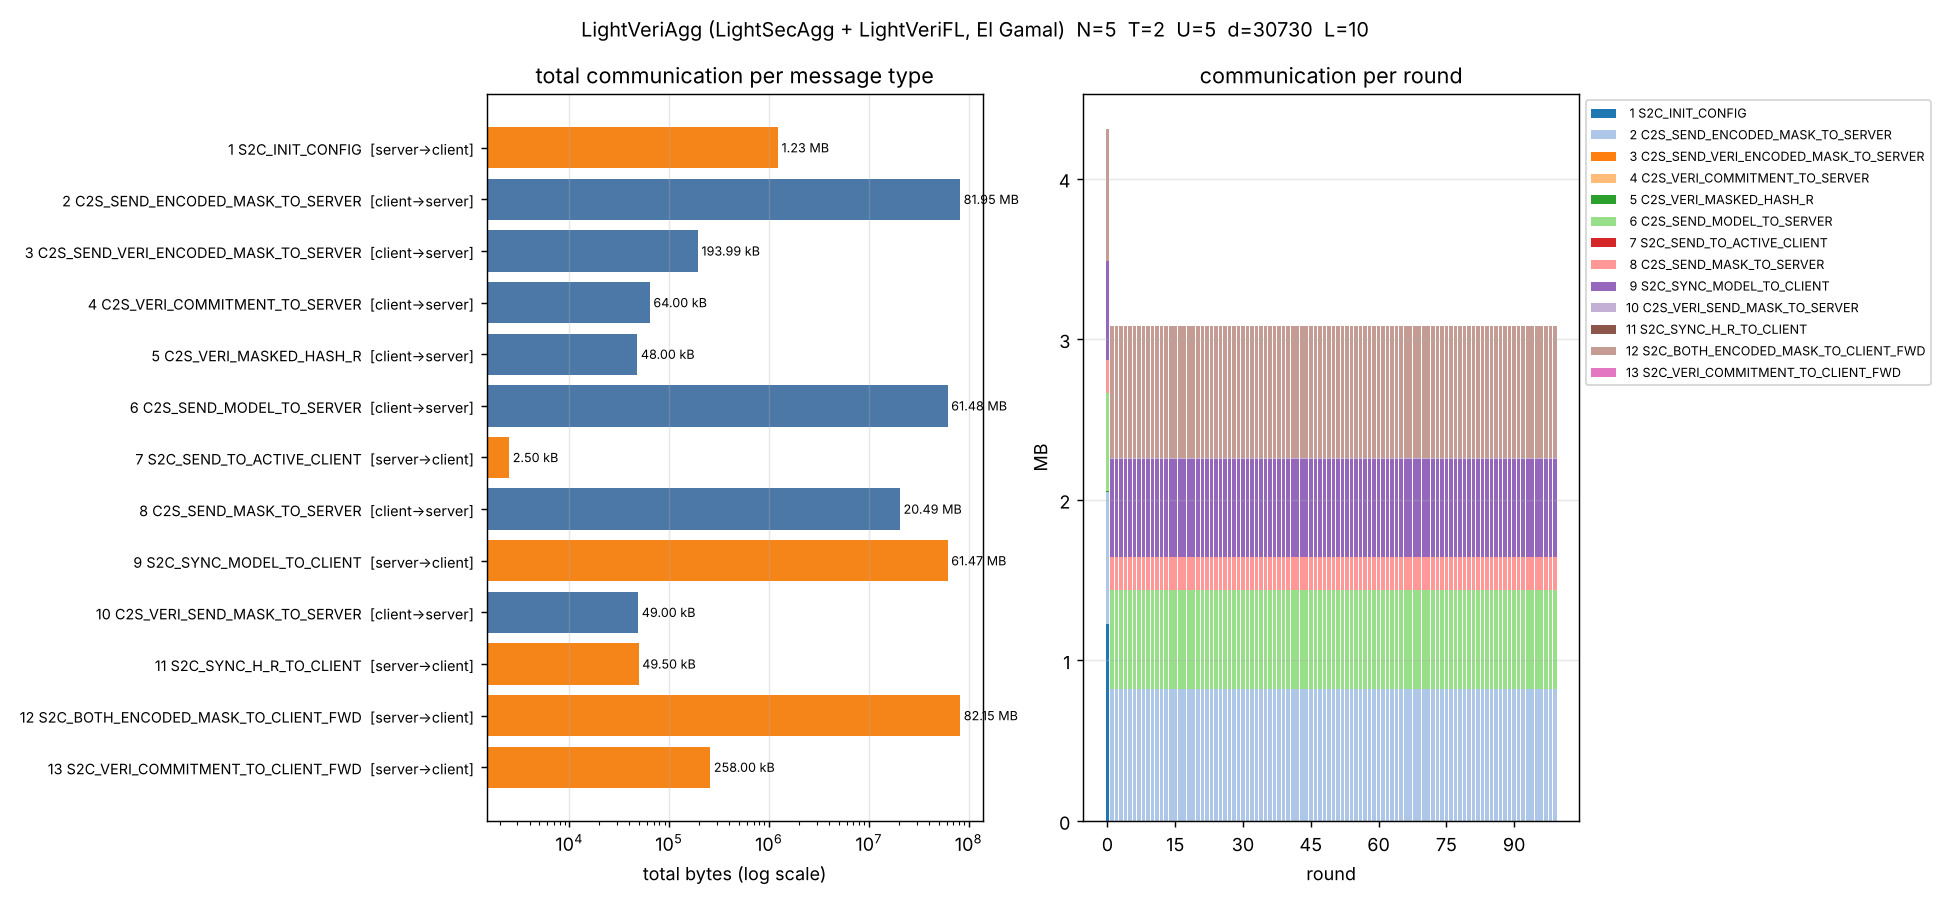
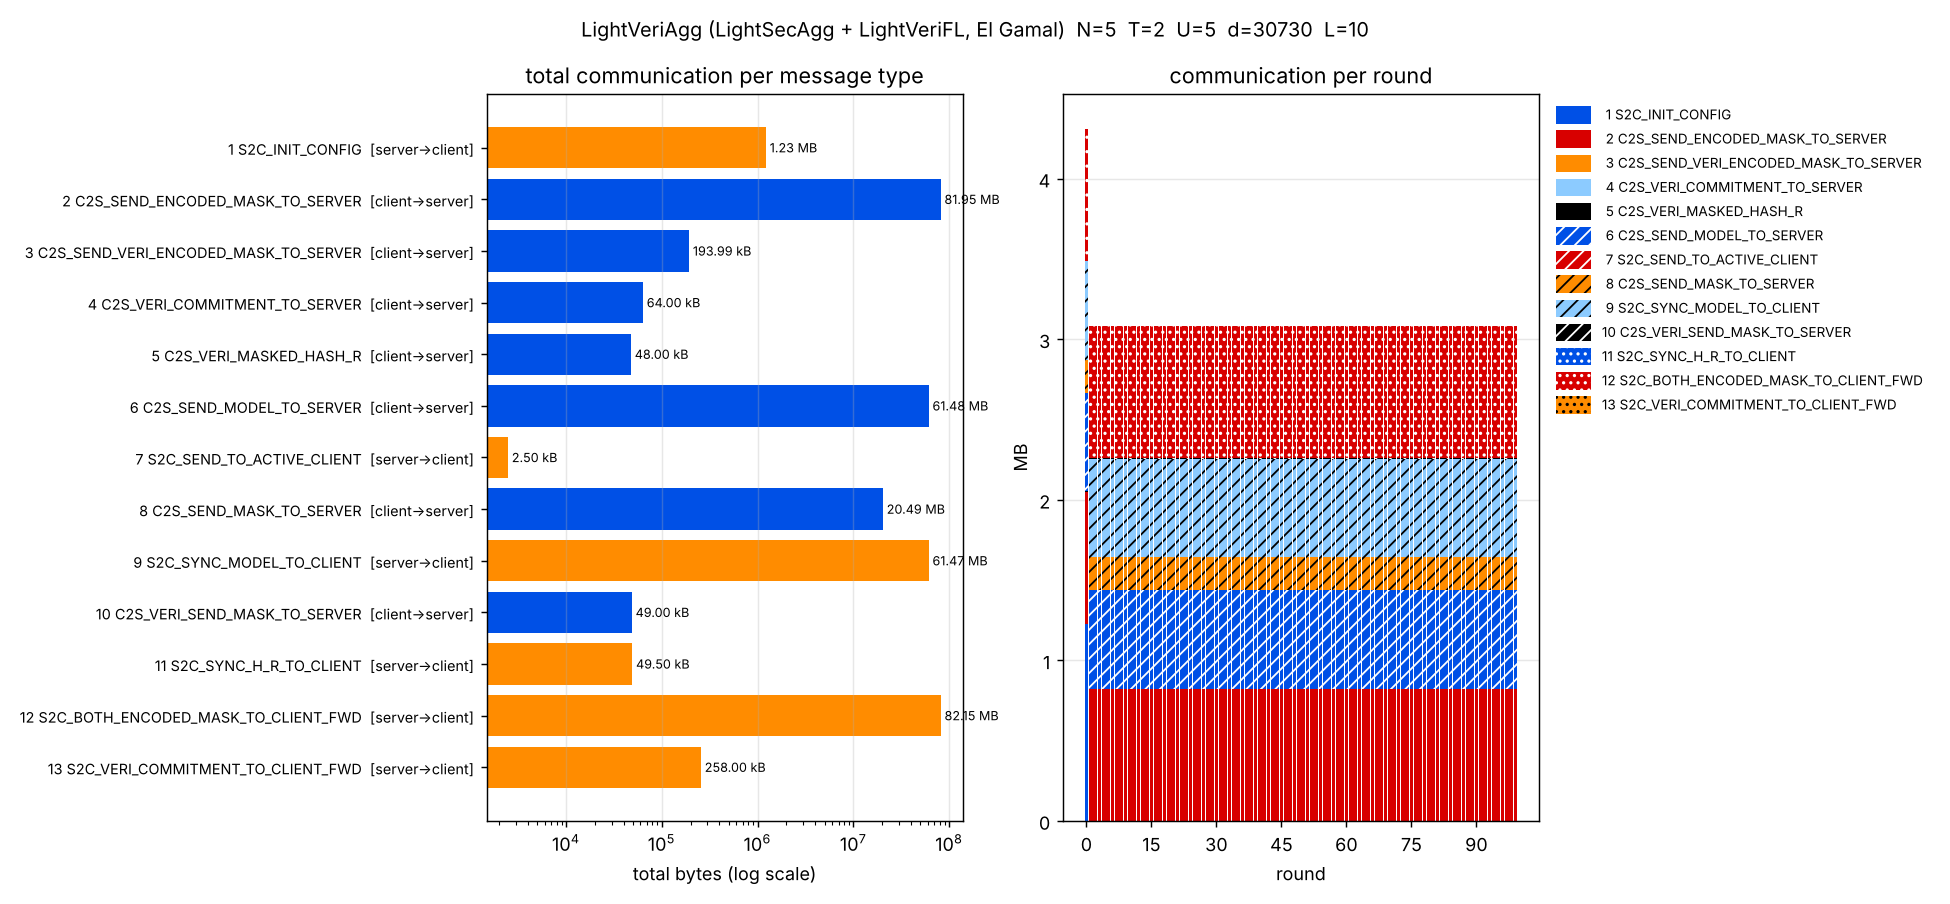
Colour-blind safe per-round charts; computation figure split in two
- communication per round and computation per round: five colours without a
  red-green pair (stark blue, red, orange, light blue, black), repeated with
  stripes and dots, so that no series relies on colour alone
- computation.png -> computation_per_step.png + computation_per_round.png
- stored runs in benchmark_results/ redrawn from their bench.json

Claude-Session: https://claude.ai/code/session_01YChDG96nS6shpJifX3EgX6

diff --git a/fedml_api/distributed/utils/bench.py b/fedml_api/distributed/utils/bench.py
@@ -389,19 +389,76 @@ def _json_default(o):
 # ----------------------------------------------------------------------------------
 # figures (matplotlib, PNG)
 # ----------------------------------------------------------------------------------
+# colour-blind safe series styles: five strong colours without a red-green pair (every pair stays
+# apart under protan/deutan/tritan simulation, worst: red/orange OKLab Delta E 19.5 for deutans),
+# repeated with patterns, so that no series is told apart by its colour alone.
+STARK_BLUE, STARK_RED, STARK_ORANGE, LIGHT_BLUE, BLACK = "#0050E6", "#D80000", "#FF8C00", "#8CCBFF", "#000000"
+SERIES_COLORS = (STARK_BLUE, STARK_RED, STARK_ORANGE, LIGHT_BLUE, BLACK)
+SERIES_HATCHES = ("", "///", "...", "\\\\\\", "xxx", "---")
+
+
+def _pyplot():
+    import matplotlib
+
+    matplotlib.use("Agg")
+    import matplotlib.pyplot as plt
+    return plt
+
+
+def series_style(i: int) -> dict:
+    """Bar style of the i-th series (series in a fixed order, e.g. by label): colour i mod 5 and
+    pattern i div 5 (solid, stripes, dots, ...); the pattern is white on the dark colours and black
+    on orange / light blue."""
+    import inspect
+    import matplotlib.patches
+
+    color = SERIES_COLORS[i % len(SERIES_COLORS)]
+    hatch = SERIES_HATCHES[(i // len(SERIES_COLORS)) % len(SERIES_HATCHES)]
+    hatch_color = BLACK if color in (STARK_ORANGE, LIGHT_BLUE) else "white"
+    style = {"facecolor": color, "hatch": hatch or None, "linewidth": 0}
+    if "hatchcolor" in inspect.signature(matplotlib.patches.Patch.__init__).parameters:
+        style["hatchcolor"] = hatch_color
+    else:  # matplotlib < 3.10 draws the pattern in the edge colour
+        style["edgecolor"] = hatch_color
+    return style
+
+
+def _stacked_bars(ax, rounds, series, width=0.85):
+    """series: [(label, values per round)] in a fixed order, stacked bottom-up; returns the totals"""
+    bottom = np.zeros(len(rounds))
+    for i, (label, v) in enumerate(series):
+        ax.bar(rounds, v, bottom=bottom, label=label, width=width, **series_style(i))
+        bottom += v
+    return bottom
+
+
+def _legend_right(ax):
+    ax.legend(fontsize=7.5, ncol=1, loc="upper left", bbox_to_anchor=(1.01, 1.0), handlelength=2.6,
+              handleheight=1.6, frameon=False)
+
+
+def _save(fig, path, title: str) -> Path:
+    import matplotlib.pyplot as plt
+
+    if title:
+        fig.suptitle(title, fontsize=11)
+    path = Path(path)
+    fig.tight_layout()
+    fig.savefig(path, dpi=130)
+    plt.close(fig)
+    return path
+
+
 def plot_communication(bench: Bench, path, title: str = "") -> Optional[Path]:
     """Total bytes per message type (left) and bytes per round stacked by message type (right)."""
     rows = bench.comm_summary()
     if not rows:
         return None
-    import matplotlib
-
-    matplotlib.use("Agg")
-    import matplotlib.pyplot as plt
+    plt = _pyplot()
     from matplotlib.ticker import MaxNLocator
 
     fig, axes = plt.subplots(1, 2, figsize=(15, max(3.2, 0.42 * len(rows) + 1.5)))
-    colors = {"client->server": "#4C78A8", "server->client": "#F58518", "server->server": "#999999"}
+    colors = {"client->server": STARK_BLUE, "server->client": STARK_ORANGE, "server->server": "#999999"}
     labels = [f"{r['label']}  [{r['direction']}]" for r in rows]
     vals = [r["bits"] / 8 for r in rows]
     ax = axes[0]
@@ -424,45 +481,28 @@ def plot_communication(bench: Bench, path, title: str = "") -> Optional[Path]:
     for rec in bench.comm:
         per[rec["label"]][rec["round"]] += rec["bits"] / 8 / 1e6
     rounds = sorted({rec["round"] for rec in bench.comm})
-    bottom = np.zeros(len(rounds))
-    cmap = plt.get_cmap("tab20")
-    for i, (label, d) in enumerate(sorted(per.items())):
-        v = np.array([d.get(rd, 0.0) for rd in rounds])
-        ax.bar(rounds, v, bottom=bottom, label=label, color=cmap(i % 20))
-        bottom += v
+    _stacked_bars(ax, rounds, [(label, np.array([d.get(rd, 0.0) for rd in rounds])) for label, d in sorted(per.items())])
     ax.set_xlabel("round")
     ax.xaxis.set_major_locator(MaxNLocator(integer=True))
     ax.set_ylabel("MB")
     ax.set_title("communication per round")
-    ax.legend(fontsize=7, ncol=1, loc="upper left", bbox_to_anchor=(1.0, 1.0))
+    _legend_right(ax)
     ax.grid(alpha=0.3, axis="y")
-    if title:
-        fig.suptitle(title, fontsize=11)
-    path = Path(path)
-    fig.tight_layout()
-    fig.savefig(path, dpi=130)
-    plt.close(fig)
-    return path
+    ax.set_axisbelow(True)
+    return _save(fig, path, title)
 
 
-def plot_computation(bench: Bench, path, title: str = "") -> Optional[Path]:
-    """Left: seconds per round and step, average over parties vs. max over parties (= concurrent clients).
-    Right: computation per round, stacked by step (slowest party per step = concurrent clients)."""
+def plot_computation_per_step(bench: Bench, path, title: str = "") -> Optional[Path]:
+    """Seconds per round and step: average over parties vs. max over parties (= concurrent clients)."""
     rows = bench.time_summary()
     if not rows:
         return None
-    import matplotlib
-
-    matplotlib.use("Agg")
-    import matplotlib.pyplot as plt
-    from matplotlib.ticker import MaxNLocator
-
-    fig, (ax, ax2) = plt.subplots(1, 2, figsize=(19, max(3.6, 0.45 * len(rows) + 1.5)),
-                                  gridspec_kw={"width_ratios": [1.0, 1.15]})
+    plt = _pyplot()
+    fig, ax = plt.subplots(figsize=(11, max(3.6, 0.45 * len(rows) + 1.5)))
     y = np.arange(len(rows))
-    ax.barh(y - 0.2, [max(r["avg_per_round_s"], 1e-7) for r in rows], height=0.4, color="#BAB0AC",
+    ax.barh(y - 0.2, [max(r["avg_per_round_s"], 1e-7) for r in rows], height=0.4, color=LIGHT_BLUE,
             label="average over parties")
-    ax.barh(y + 0.2, [max(r["parallel_per_round_s"], 1e-7) for r in rows], height=0.4, color="#4C78A8",
+    ax.barh(y + 0.2, [max(r["parallel_per_round_s"], 1e-7) for r in rows], height=0.4, color=STARK_BLUE,
             label="max over parties (concurrent clients)")
     ax.set_yticks(y, [f"{r['label']} [{r['who']}]" for r in rows], fontsize=8)
     ax.invert_yaxis()
@@ -471,30 +511,34 @@ def plot_computation(bench: Bench, path, title: str = "") -> Optional[Path]:
     ax.set_title("computation time per step (mean over rounds)")
     ax.legend(fontsize=8)
     ax.grid(alpha=0.3, axis="x")
+    ax.set_axisbelow(True)
+    return _save(fig, path, title)
 
-    # per round, stacked by step
+
+def plot_computation_per_round(bench: Bench, path, title: str = "") -> Optional[Path]:
+    """Computation per round, stacked by step (slowest party per step = concurrent clients, steps one
+    after another), with the mean per round."""
     per_round = bench.per_round_compute()
+    if not per_round:
+        return None
+    plt = _pyplot()
+    import matplotlib.patheffects as pe
+    from matplotlib.ticker import MaxNLocator
+
+    labels = [r["label"] for r in bench.time_summary()]  # the order of the per-step figure
     rounds = list(per_round)
-    labels = [r["label"] for r in rows]
-    bottom = np.zeros(len(rounds))
-    cmap = plt.get_cmap("tab20")
-    for i, label in enumerate(labels):
-        v = np.array([per_round[rd].get(label, 0.0) for rd in rounds])
-        ax2.bar(rounds, v, bottom=bottom, label=label, color=cmap(i % 20), width=0.85)
-        bottom += v
+    fig, ax = plt.subplots(figsize=(15, max(5.0, 0.3 * len(labels) + 1.5)))
+    totals = _stacked_bars(ax, rounds, [(label, np.array([per_round[rd].get(label, 0.0) for rd in rounds]))
+                                        for label in labels])
     if len(rounds) > 1:
-        ax2.axhline(float(np.mean(bottom)), color="black", ls="--", lw=1,
-                    label="mean per round (%.2f s)" % float(np.mean(bottom)))
-    ax2.set_xlabel("round")
-    ax2.xaxis.set_major_locator(MaxNLocator(integer=True))
-    ax2.set_ylabel("seconds")
-    ax2.set_title("computation per round (slowest party per step, steps one after another)")
-    ax2.legend(fontsize=7, ncol=1, loc="upper left", bbox_to_anchor=(1.0, 1.0))
-    ax2.grid(alpha=0.3, axis="y")
-    if title:
-        fig.suptitle(title, fontsize=11)
-    path = Path(path)
-    fig.tight_layout()
-    fig.savefig(path, dpi=130)
-    plt.close(fig)
-    return path
+        mean = float(np.mean(totals))
+        ax.axhline(mean, color=BLACK, ls="--", lw=1.4, label="mean per round (%.2f s)" % mean,
+                   path_effects=[pe.Stroke(linewidth=3.5, foreground="white"), pe.Normal()])
+    ax.set_xlabel("round")
+    ax.xaxis.set_major_locator(MaxNLocator(integer=True))
+    ax.set_ylabel("seconds")
+    ax.set_title("computation per round (slowest party per step, steps one after another)")
+    _legend_right(ax)
+    ax.grid(alpha=0.3, axis="y")
+    ax.set_axisbelow(True)
+    return _save(fig, path, title)

diff --git a/fedml_api/distributed/lightveriagg/single_process.py b/fedml_api/distributed/lightveriagg/single_process.py
@@ -12,7 +12,7 @@ While running
 * the protocol steps of clients and server are timed with ``timer`` (inside the managers).
 
 Output (``--results_dir``, default ./results): report.txt, metrics.json, bench.json,
-communication.png, computation.png -- as in the flcourse framework.
+communication.png, computation_per_step.png, computation_per_round.png -- as in the flcourse framework.
 """
 import copy
 import json
@@ -27,7 +27,7 @@ import numpy as np
 from fedml_core.distributed.communication.local import LocalBus
 from fedml_core.distributed.communication.message import Message
 from fedml_api.distributed.utils.bench import Bench, fmt_bits, fmt_seconds, measure, plot_communication, \
-    plot_computation
+    plot_computation_per_round, plot_computation_per_step
 
 from .LightVeriAggAggregator import LightVeriAggAggregator
 from .LightVeriAggClientManager import LightVeriAggClientManager, VerificationError
@@ -145,7 +145,8 @@ def write_report(args, bench, summary, server, clients):
     title = "LightVeriAgg (LightSecAgg + LightVeriFL, El Gamal)  N=%d  T=%d  U=%d  d=%d  L=%d" % (
         N, args.privacy_guarantee, args.targeted_number_active_clients, d, getattr(args, "veri_batch_size", 0))
     figures = [plot_communication(bench, out / "communication.png", title),
-               plot_computation(bench, out / "computation.png", title)]
+               plot_computation_per_step(bench, out / "computation_per_step.png", title),
+               plot_computation_per_round(bench, out / "computation_per_round.png", title)]
     latency = bench.latency_estimate(up, down)
     summary = dict(summary, output_dir=str(out), estimated_round_latency=latency)
 

diff --git a/fedml_api/distributed/utils/tests.py b/fedml_api/distributed/utils/tests.py
@@ -533,7 +533,8 @@ def test_protocol_end_to_end(tmp_path):
     assert {r["round"] for r in result["bench"].comm} == {0, 1, 2}
     # benchmark output
     out = result["output_dir"]
-    for name in ("report.txt", "metrics.json", "bench.json", "communication.png", "computation.png"):
+    for name in ("report.txt", "metrics.json", "bench.json", "communication.png", "computation_per_step.png",
+                 "computation_per_round.png"):
         assert (out / name).exists()
     assert "all verified: True" in (out / "report.txt").read_text()
 

diff --git a/fedml_experiments/distributed/lightveriagg/README.md b/fedml_experiments/distributed/lightveriagg/README.md
@@ -29,7 +29,9 @@ bash run_lightsecagg_distributed_pytorch.sh
   same protocol code; every virtually transmitted object is sized (communication) and every protocol
   step is timed (computation). `RESULTS_DIR` then contains `report.txt` (tables as in the flcourse
   framework, estimated round latency with concurrent clients), `bench.json`, `metrics.json`,
-  `communication.png`, `computation.png`.
+  `communication.png`, `computation_per_step.png`, `computation_per_round.png`. The stacked
+  per-round charts are colour-blind safe: five colours without a red-green pair (stark blue, red,
+  orange, light blue, black), each repeated with stripes and dots, so no series relies on colour alone.
 * `VERI_BATCH_SIZE` (L), `VERI_ALPHA_BITS` (0 = plain sum as in the LightVeriFL implementation, which
   lets a server shift a forgery between rounds), `VERI_DROPOUT_RATE` (simulated verification dropouts;
   at least T+1 users must survive).
@@ -57,8 +59,8 @@ bash run_benchmarks.sh full     # as in benchmark_results/report.md, ~2 h
 ```
 Everything runs single-process (clients one after another, one torch/BLAS thread) and the runs one
 after another. Output in `results/benchmarks_<date>/`: (1) the setup of the run script (LR on CIFAR-10,
-5 clients, many more rounds than L) with `report.txt`, `communication.png`, `computation.png` (right
-panel: computation per round -- the amortized batch check makes every L-th round expensive, the other
+5 clients, many more rounds than L) with `report.txt`, `communication.png`, `computation_per_step.png`,
+`computation_per_round.png` (the amortized batch check makes every L-th round expensive, the other
 rounds of a batch are cheap); (2) the comparison with LightVeriFL + SecAgg with `report.md`,
 `scaling_N.png`, `scaling_d.png`. Example: `benchmark_results/lightveriagg_cifar10_100rounds_L10/`
 (100 rounds, L = 10: ~6-9 s per round, 21-24.5 s in the rounds 9, 19, ..., 99 with the batch check,
